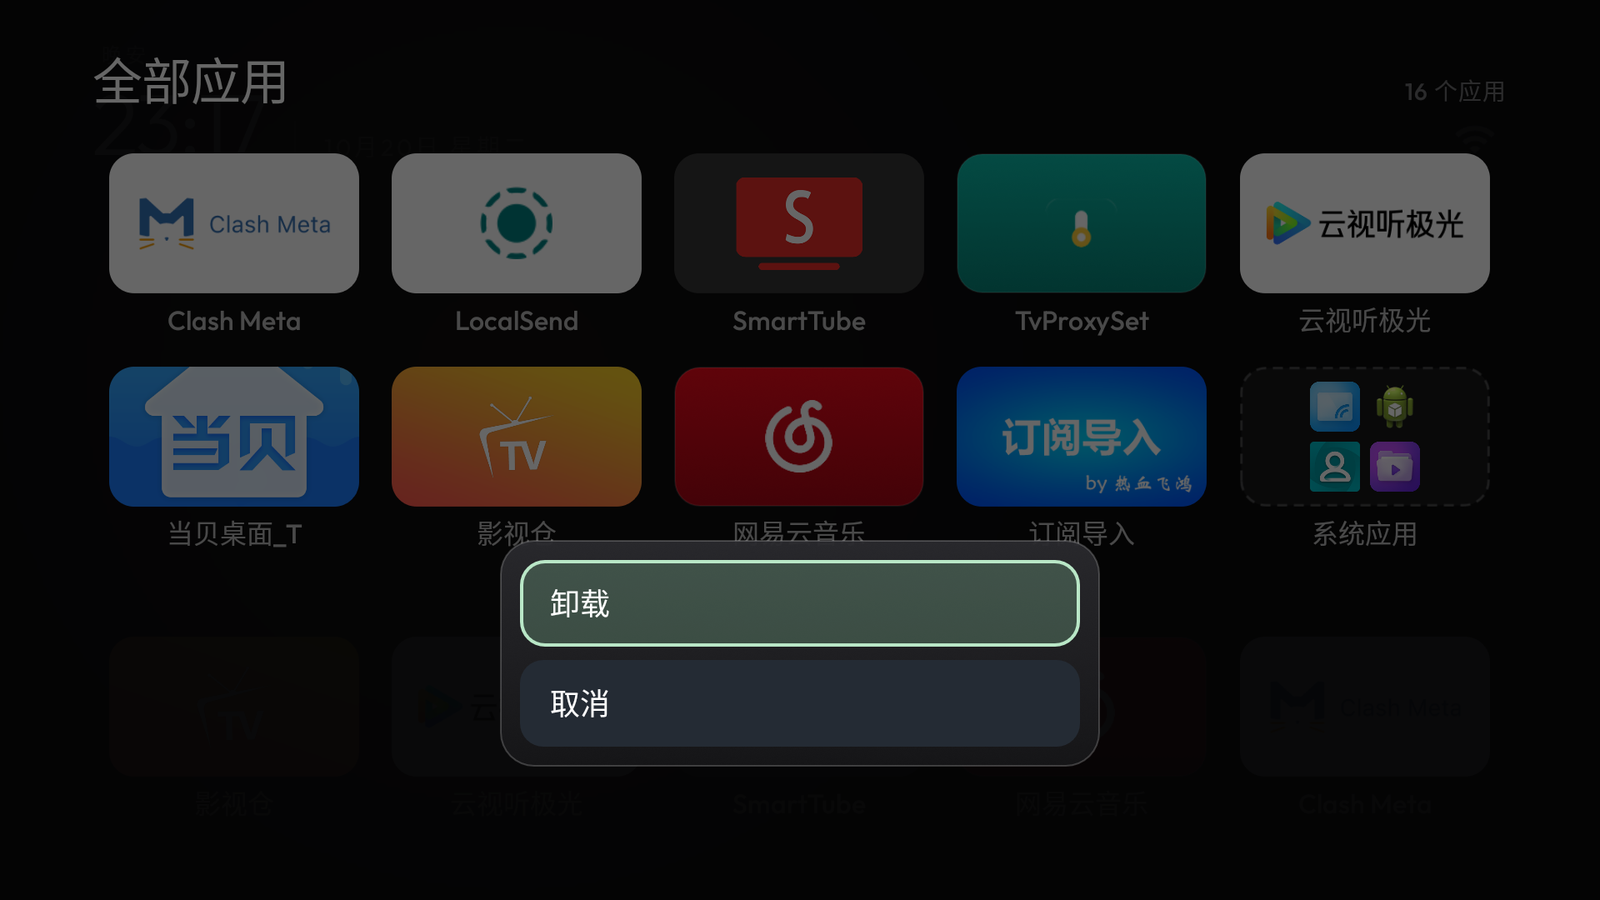
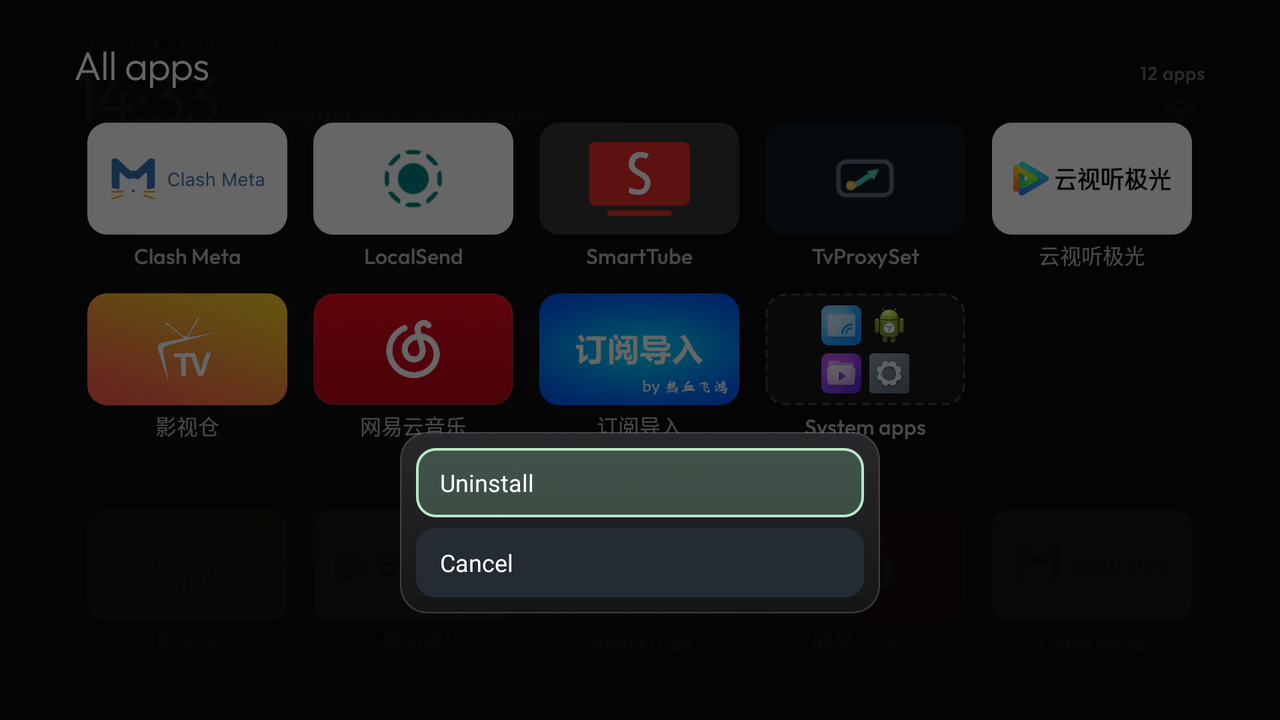
docs: fresh screenshots in the English UI
The README is written in English while the screenshots showed the Chinese strings; these are the same
seven screens taken from the 3.1.0 build with the launcher set to English, at 1280x720 to keep the repo
light.

diff --git a/README.md b/README.md
@@ -3,7 +3,7 @@
 A small, fast home screen for Android TV boxes and TVs that have become slow because of their stock
 launcher: no feed, no ads, no telemetry, one process, no background service.
 
-Built for a 1.3 GB / MediaTek TV running Android 9, and kept small on purpose: **one APK under 400 KB**,
+Built for a 1.3 GB / MediaTek TV running Android 9, and kept small on purpose: **one APK around 320 KB**,
 ~50 MB of memory for Home, and nothing running when you are not looking at it.
 
 ![Home](docs/screenshots/home.png)
